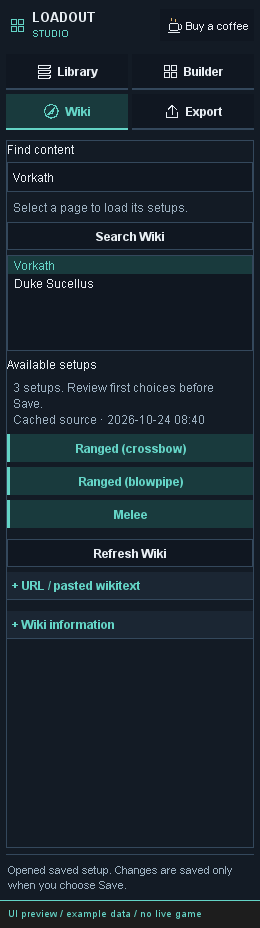
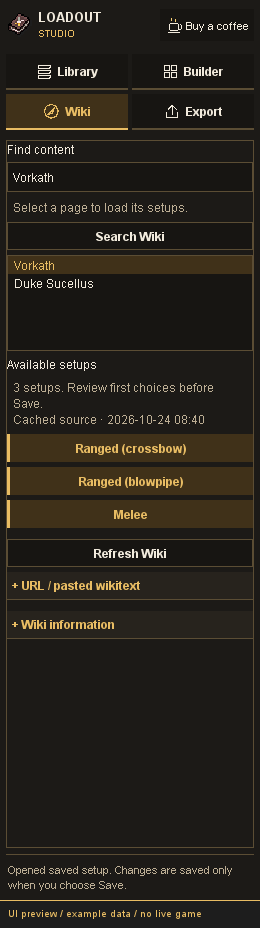
Restore gold styling and Combat Achievements identity

diff --git a/src/main/java/com/loadoutstudio/StudioPanel.java b/src/main/java/com/loadoutstudio/StudioPanel.java
@@ -16,6 +16,8 @@ import java.awt.GridBagConstraints;
 import java.awt.GridBagLayout;
 import java.awt.GridLayout;
 import java.awt.Insets;
+import java.awt.Image;
+import javax.swing.ImageIcon;
 import java.awt.datatransfer.DataFlavor;
 import java.awt.datatransfer.StringSelection;
 import java.awt.datatransfer.Transferable;
@@ -203,7 +205,7 @@ public final class StudioPanel extends PluginPanel
 		JPanel heading = vertical(); JLabel title = text("LOADOUT"); title.setName("studioTitle"); title.setToolTipText("Loadout Studio 0.9.0-test - character-specific setup library");
         JButton coffee = button("Buy a coffee", () -> attempt(host::openSupportPage)); coffee.setIcon(new SidebarIcon(SidebarIcon.Kind.COFFEE)); coffee.setName("supportCoffee"); coffee.setToolTipText("Buy a coffee"); coffee.getAccessibleContext().setAccessibleName("Buy a coffee"); coffee.getAccessibleContext().setAccessibleDescription(COFFEE_URL); coffee.setPreferredSize(new Dimension(94, 28));
         JPanel wordmark=new JPanel(new GridLayout(2,1,0,0));wordmark.setName("studioWordmark");wordmark.add(title);JLabel subtitle=text("STUDIO");subtitle.setName("studioSubtitle");wordmark.add(subtitle);
-        JPanel identity=new JPanel(new BorderLayout(6,0));JLabel mark=new JLabel(StudioTheme.route(1));mark.setName("studioMark");mark.setForeground(GOLD);mark.setPreferredSize(new Dimension(18,32));identity.add(mark,BorderLayout.WEST);identity.add(wordmark,BorderLayout.CENTER);
+        JPanel identity=new JPanel(new BorderLayout(6,0));JLabel mark=new JLabel(new ImageIcon(StudioBrandIcon.create().getScaledInstance(24,24,Image.SCALE_REPLICATE)));mark.setName("studioMark");mark.setForeground(GOLD);mark.setPreferredSize(new Dimension(24,32));identity.add(mark,BorderLayout.WEST);identity.add(wordmark,BorderLayout.CENTER);
         JPanel titleBar = new JPanel(new BorderLayout(4, 0));titleBar.setBorder(BorderFactory.createEmptyBorder(1,2,8,0));titleBar.add(identity, BorderLayout.CENTER); titleBar.add(coffee, BorderLayout.EAST); heading.add(titleBar);
 		JPanel menu = new JPanel(new GridLayout(2, 2, 4, 4));
 		for (int i = 0; i < tabs.getTabCount(); i++)

diff --git a/src/main/java/com/loadoutstudio/StudioTheme.java b/src/main/java/com/loadoutstudio/StudioTheme.java
@@ -4,7 +4,7 @@ import java.awt.*;
 import javax.swing.*;
 /** Loadout Studio's own palette. Applied locally; never changes RuneLite UI defaults. */
 final class StudioTheme {
-    static final Color BACKGROUND=new Color(19,27,37),SURFACE=new Color(27,38,51),CONTROL=new Color(16,23,33),BORDER=new Color(52,72,92),TEXT=new Color(231,237,242),MUTED=new Color(156,176,192),ACCENT=new Color(100,212,198),SELECTED=new Color(25,58,61),FAVORITE=new Color(231,184,110),ERROR=new Color(230,139,134);
+    static final Color BACKGROUND=new Color(28,26,23),SURFACE=new Color(39,35,29),CONTROL=new Color(23,21,18),BORDER=new Color(91,77,52),TEXT=new Color(241,234,220),MUTED=new Color(188,174,148),ACCENT=new Color(232,188,99),SELECTED=new Color(64,49,25),FAVORITE=new Color(247,207,117),ERROR=new Color(230,139,134);
     static final Font BODY=new Font(Font.SANS_SERIF,Font.PLAIN,12),ACTION=new Font(Font.SANS_SERIF,Font.BOLD,12),SMALL=new Font(Font.SANS_SERIF,Font.PLAIN,11),SECTION=new Font(Font.SANS_SERIF,Font.BOLD,11),CODE=new Font(Font.MONOSPACED,Font.PLAIN,11);
     private StudioTheme(){}
     static JToolTip tooltip(JToolTip tip){tip.setFont(SMALL);tip.setBackground(SURFACE);tip.setForeground(TEXT);tip.setBorder(BorderFactory.createCompoundBorder(BorderFactory.createLineBorder(BORDER),BorderFactory.createEmptyBorder(5,7,5,7)));return tip;}

diff --git a/src/main/java/com/loadoutstudio/StudioBrandIcon.java b/src/main/java/com/loadoutstudio/StudioBrandIcon.java
@@ -7,7 +7,7 @@ final class StudioBrandIcon
 {
     static BufferedImage create()
     {
-        BufferedImage source=ImageUtil.loadImageResource(StudioBrandIcon.class,"combat-tutor.png"), icon=new BufferedImage(32,32,BufferedImage.TYPE_INT_ARGB);
+        BufferedImage source=ImageUtil.loadImageResource(StudioBrandIcon.class,"combat-achievements.png"), icon=new BufferedImage(32,32,BufferedImage.TYPE_INT_ARGB);
         Graphics2D graphics=icon.createGraphics();graphics.setRenderingHint(RenderingHints.KEY_INTERPOLATION,RenderingHints.VALUE_INTERPOLATION_NEAREST_NEIGHBOR);int minX=source.getWidth(),minY=source.getHeight(),maxX=0,maxY=0;
         for(int y=0;y<source.getHeight();y++)for(int x=0;x<source.getWidth();x++)if((source.getRGB(x,y)>>>24)>0){minX=Math.min(minX,x);minY=Math.min(minY,y);maxX=Math.max(maxX,x);maxY=Math.max(maxY,y);}
         graphics.drawImage(source,0,0,32,32,minX,minY,maxX+1,maxY+1,null);graphics.dispose();return icon;

diff --git a/README.md b/README.md
@@ -8,7 +8,7 @@ Loadout Studio works without the Inventory Setups and standalone Bank Tag Layout
 
 ## Screenshots
 
-Offline renders of the actual sidebar using Loadout Studio's own slate/turquoise theme and example loadouts. These are UI previews, not captures of a logged-in client or proof of live Bank behavior.
+Offline renders of the actual sidebar using Loadout Studio's own charcoal/gold theme and example loadouts. These are UI previews, not captures of a logged-in client or proof of live Bank behavior.
 
 ![Library, Builder, Wiki and Export previews](docs/screenshots/overview.png)
 
@@ -53,7 +53,7 @@ The sidebar has four tabs:
 
 ## Visual Design
 
-Loadout Studio uses its own dark slate surfaces, turquoise accents, sans-serif typography, wordmark, navigation icons and compact setup cards. Primary actions, expandable sections and Wiki setup choices have distinct treatments. OSRS item sprites, yellow stack counts and the familiar slot geometry remain intact.
+Loadout Studio uses its own warm charcoal surfaces, gold accents, sans-serif typography, wordmark, navigation icons and compact setup cards. Primary actions, expandable sections and Wiki setup choices have distinct treatments. OSRS item sprites, yellow stack counts and the familiar slot geometry remain intact.
 
 The theme is applied only to this plugin's sidebar, controls and support views. RuneLite's native configuration window and in-game Bank menus retain the host's styling; other plugins' UI defaults are not changed.
 
@@ -312,7 +312,9 @@ Automated tests cover data formats, item matching, layouts, caching and sidebar 
 
 ### 0.9.0-test
 
-- Give Loadout Studio a distinct slate/turquoise visual identity, sans-serif text, two-line wordmark and icon navigation.
+- Restore warm gold accents and charcoal surfaces while retaining the distinct sidebar controls and cards. Use the OSRS Combat Achievements icon in the sidebar and header.
+
+- Give Loadout Studio a distinct charcoal/gold visual identity, sans-serif text, two-line wordmark and icon navigation.
 - Restyle setup cards, section headings, Wiki choices, primary actions, checkboxes, menus and tooltips consistently within this plugin.
 - Preserve item artwork, count rendering, slot dimensions, saved data and native RuneLite settings styling. No global UI defaults are changed.
 - Refresh the sidebar and diagnostics screenshot gallery; verify contrast and narrow navigation labels.

diff --git a/docs/ASSETS.md b/docs/ASSETS.md
@@ -1,6 +1,6 @@
 # Asset credits
 
-`src/main/resources/com/loadoutstudio/combat-tutor.png` is the OSRS Combat Tutor map icon requested by the user. Source: [Combat Tutor icon on OSRS Wiki](https://oldschool.runescape.wiki/w/File:Combat_Tutor_icon.png), image URL https://oldschool.runescape.wiki/images/Combat_Tutor_icon.png. RuneScape artwork is copyright Jagex. The project license does not transfer ownership of Jagex artwork. Review artwork permissions before public distribution.
+The legacy bundled `src/main/resources/com/loadoutstudio/combat-tutor.png` is the OSRS Combat Tutor map icon. Source: [Combat Tutor icon on OSRS Wiki](https://oldschool.runescape.wiki/w/File:Combat_Tutor_icon.png), image URL https://oldschool.runescape.wiki/images/Combat_Tutor_icon.png. RuneScape artwork is copyright Jagex. The project license does not transfer ownership of Jagex artwork. Review artwork permissions before public distribution. The current sidebar and header use Combat Achievements instead.
 
 The small PNG is bundled in the plugin and scaled with nearest-neighbor rendering. Runtime code does not fetch it or other Wiki images. Other sidebar controls are locally drawn; item sprites use RuneLite ItemManager.
 
@@ -21,3 +21,5 @@ Item artwork is copyright Jagex. The small sprite inputs were obtained once for 
 Settings previews use RuneLite fonts, styling and the section-arrow resource from the RuneLite client. See the [RuneLite source and license](https://github.com/runelite/runelite). No additional runtime image request is introduced.
 
 The 0.9 sidebar wordmark treatment, route glyphs and checkbox controls are locally drawn Java UI code. They introduce no downloaded fonts or image requests. Settings documentation continues to represent the native RuneLite configuration style.
+
+`src/main/resources/com/loadoutstudio/combat-achievements.png` is the OSRS Combat Achievements Character Summary icon used by the sidebar and header. Source: [OSRS Wiki asset page](https://oldschool.runescape.wiki/w/File:Combat_achievements_icon.png), image URL https://oldschool.runescape.wiki/images/Combat_achievements_icon.png. Artwork copyright Jagex. Bundled locally; no runtime image requests.

diff --git a/docs/sidebar-system-design.md b/docs/sidebar-system-design.md
@@ -146,6 +146,8 @@ Show worn items gets a distinct Loadout Studio submenu. Layout/filter actions ca
 
 ## Independent visual identity in 0.9.0
 
-StudioTheme owns the sidebar palette: background #131B25, surfaces #1B2633, controls #101721, turquoise accent #64D4C6 and muted text #9CB0C0. Logical SansSerif 12 is the UI body font; small uppercase section labels and a two-line LOADOUT/STUDIO wordmark distinguish the chrome from Inventory Setups' presentation. Route glyphs, an active underline, card rails and clear primary actions provide redundant visual cues. Favorites retain a warm secondary star.
+StudioTheme owns the sidebar palette: background #1C1A17, surfaces #27231D, controls #171512, gold accent #E8BC63 and muted text #BCAE94. Logical SansSerif 12 is the UI body font; small uppercase section labels and a two-line LOADOUT/STUDIO wordmark distinguish the chrome from Inventory Setups' presentation. Route glyphs, an active underline, card rails and clear primary actions provide redundant visual cues. Favorites retain a warm secondary star.
 
 The change is limited to this component tree and locally created popup menus/tooltips. Native RuneLite settings and in-game menu rendering are owned by the host and remain unchanged. UIManager values are never modified by StudioTheme. Item art and count fonts remain OSRS-style, with existing grid dimensions and drag/drop semantics. Settings/export/diagnostic flags and stored data receive no migration or rewrite.
+
+The current header and toolbar share the bundled OSRS Combat Achievements icon. Gold accents restore the requested warmer identity while keeping distinct navigation, cards and disclosure treatments. Native settings retain RuneLite styling.

diff --git a/docs/local-acceptance.md b/docs/local-acceptance.md
@@ -75,4 +75,4 @@ Confirm Show coffee button no longer exists in plugin settings. Buy a coffee rem
 
 ## Distinct sidebar style
 
-Check the slate/turquoise theme at normal and increased display scaling, 220/260 px sidebar widths, every route and the report dialog. Navigation labels and the permanent support button must fit with their icons. Verify keyboard focus, long-title ellipsis, popup/dropdown selection, checkboxes and selected highlights. Item sprites/counts and slot positions must retain their previous behavior. RuneLite native settings and other plugins should keep their original style. Test Save, Wiki selection, drag/drop and Copy once in the real client after the visual update.
+Check the warm charcoal/gold theme at normal and increased display scaling, 220/260 px sidebar widths, every route and the report dialog. Navigation labels and the permanent support button must fit with their icons. Verify keyboard focus, long-title ellipsis, popup/dropdown selection, checkboxes and selected highlights. Item sprites/counts and slot positions must retain their previous behavior. RuneLite native settings and other plugins should keep their original style. Test Save, Wiki selection, drag/drop and Copy once in the real client after the visual update.

diff --git a/docs/VALIDATION.md b/docs/VALIDATION.md
@@ -241,3 +241,8 @@ Bank filtering now uses the built-in Bank Tags dependency, an in-memory custom t
 - Standard and owned-alternative list renderers use the RuneScape body font and keep HTML disabled. Import, share and upgrade review content receives the same form theme; native dialog buttons remain managed by RuneLite.
 - Native Windows Java 11 test/shadowJar/jar succeeded: 121 tests, zero failures/errors/skipped. The new regression checks actual slot/submenu and Library menus. Existing offline layout tests cover 220/260 px; Library, Builder, Wiki, Export and slot-menu previews were visually reviewed.
 - Versioned local artifacts copied and hashes matched. Offline Swing fixtures do not validate live RuneLite look-and-feel, game sprites or real input; manual acceptance remains required.
+
+## Warm identity correction
+
+- Restored gold accents on warm charcoal surfaces. Header and toolbar use the bundled OSRS Combat Achievements icon.
+- Contrast, native-theme isolation and narrow-sidebar label-fit regressions are retained. Screenshots are offline UI previews; live display scaling remains a manual check.
